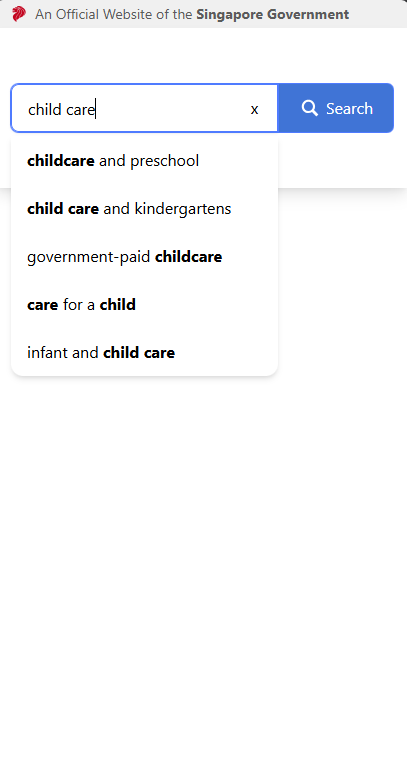
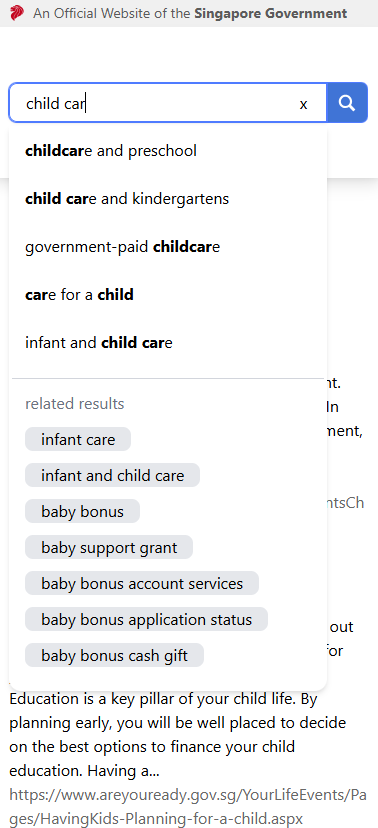
docs: update new feature docs

diff --git a/README.md b/README.md
@@ -82,11 +82,12 @@ Test library used:
 ![search input](./docs/search-typeahead.png)
 ![search result](./docs/search-result.png)
 - **Mobile view**\
-![search input](./docs/search-typeahead-mobile.png)
-![search result](./docs/search-result-mobile.png)
+![search input](./docs/search-typeahead-mobile.png)\
+![search result](./docs/search-result-mobile.png)\
 - **Network error**\
 ![network error](./docs/network-error.png)
 
 ## 📝 Assumptions
 - Each suggestion needs to highlights all words in the search string individually.
 - The mock data for query result only highlights the word 'child'. An additional filter has been added to dynamically change the highlights array to match the actual search word.
+- If a user search has multiple words and they all have synonyms, only the synonyms of the first word is used to generate the extra suggestion list. This is to keep things simple.
